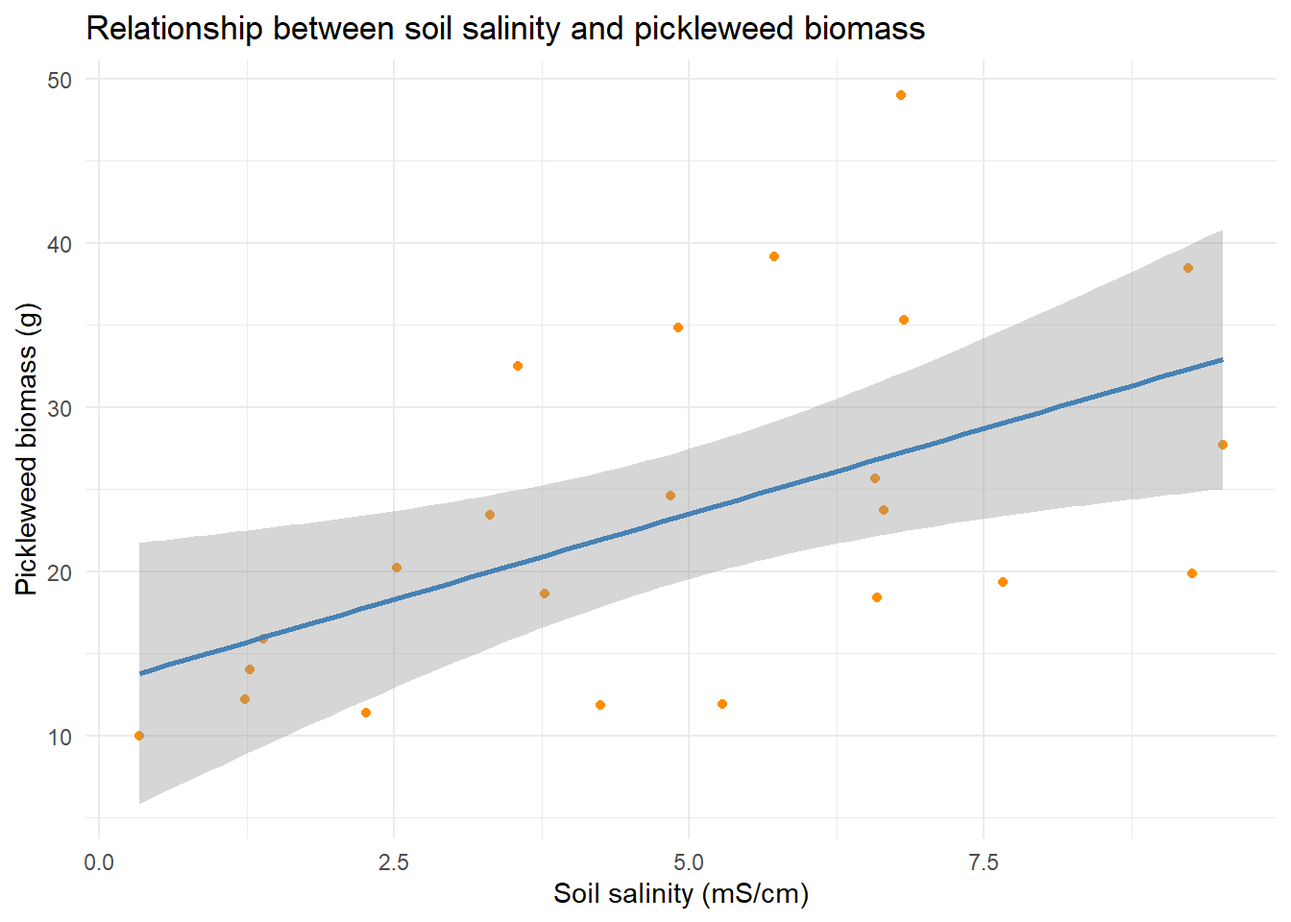
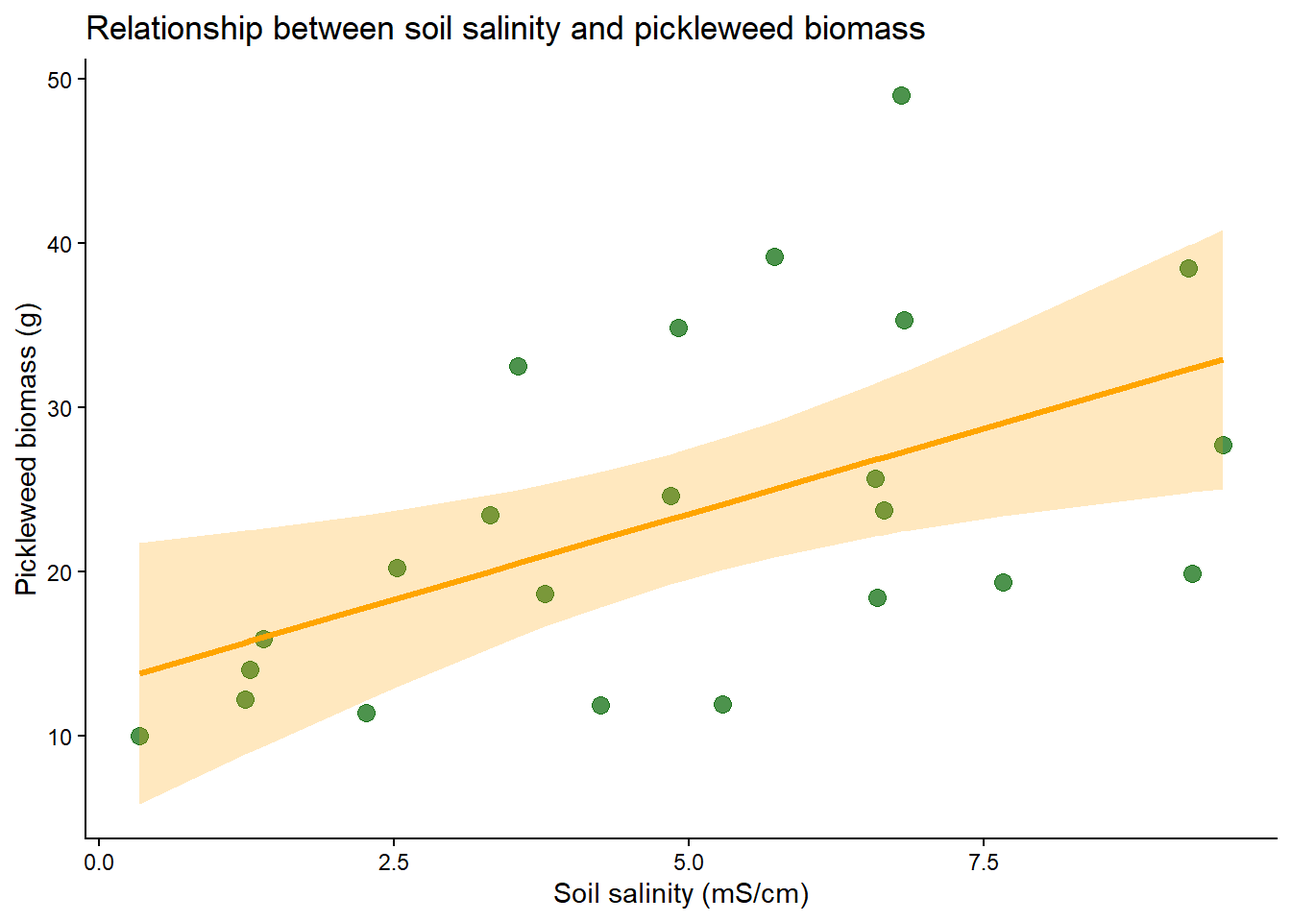
Ran Pearsons and Spearmans correlation

diff --git a/code/code.html b/code/code.html
@@ -120,20 +120,53 @@ pre > code.sourceCode > span > a:first-child::before { text-decoration: underlin
 <h1>Problem 1</h1>
 <section id="a." class="level3">
 <h3 class="anchored" data-anchor-id="a.">a.</h3>
-<p>I could do a linear regression test or a Pearson’s correlation test. Pearson’s correlation measures the stregeth and direction of a linear association between the two variables, while linear regression quantifies the relationship (1 predictor and 1 response) by estimating how biomass changes with salinity (uses slope and intercept).</p>
+<p>Two appropriate tests for evaluating the strength of the relationship between soil salinity (mS/cm) and pickleweed biomass (g) are Pearsons correlation and spearmans rank correlation . Pearson’s correlation measures the strength of a linear relationship and assumes normality and equal variance, while Spearman’s correlation uses the ranked values and does not require normality, making it more appropriate for skewed or nonlinear patterns. Both treat salinity and biomass as continuous variables but differ in their assumptions and sensitivity to outliers.</p>
 </section>
 <section id="b." class="level3">
 <h3 class="anchored" data-anchor-id="b.">b.</h3>
 <div class="cell">
-<div class="code-copy-outer-scaffold"><div class="sourceCode cell-code" id="cb2"><pre class="sourceCode r code-with-copy"><code class="sourceCode r"><span id="cb2-1"><a href="#cb2-1" aria-hidden="true" tabindex="-1"></a><span class="fu">ggplot</span>(salinity, <span class="fu">aes</span>(<span class="at">x =</span> salinity_mS_cm, <span class="at">y =</span> pickleweed)) <span class="sc">+</span></span>
-<span id="cb2-2"><a href="#cb2-2" aria-hidden="true" tabindex="-1"></a>  <span class="fu">geom_point</span>(<span class="at">color =</span> <span class="st">"darkorange"</span>) <span class="sc">+</span></span>
-<span id="cb2-3"><a href="#cb2-3" aria-hidden="true" tabindex="-1"></a>  <span class="fu">geom_smooth</span>(<span class="at">method =</span> <span class="st">"lm"</span>, <span class="at">se =</span> <span class="cn">TRUE</span>, <span class="at">color =</span> <span class="st">"steelblue"</span>) <span class="sc">+</span></span>
-<span id="cb2-4"><a href="#cb2-4" aria-hidden="true" tabindex="-1"></a>  <span class="fu">labs</span>(</span>
-<span id="cb2-5"><a href="#cb2-5" aria-hidden="true" tabindex="-1"></a>    <span class="at">x =</span> <span class="st">"Soil salinity (mS/cm)"</span>,</span>
-<span id="cb2-6"><a href="#cb2-6" aria-hidden="true" tabindex="-1"></a>    <span class="at">y =</span> <span class="st">"Pickleweed biomass (g)"</span>,</span>
-<span id="cb2-7"><a href="#cb2-7" aria-hidden="true" tabindex="-1"></a>    <span class="at">title =</span> <span class="st">"Relationship between soil salinity and pickleweed biomass"</span></span>
-<span id="cb2-8"><a href="#cb2-8" aria-hidden="true" tabindex="-1"></a>  ) <span class="sc">+</span></span>
-<span id="cb2-9"><a href="#cb2-9" aria-hidden="true" tabindex="-1"></a>  <span class="fu">theme_minimal</span>()</span></code></pre></div><button title="Copy to Clipboard" class="code-copy-button"><i class="bi"></i></button></div>
+<div class="code-copy-outer-scaffold"><div class="sourceCode cell-code" id="cb2"><pre class="sourceCode r code-with-copy"><code class="sourceCode r"><span id="cb2-1"><a href="#cb2-1" aria-hidden="true" tabindex="-1"></a><span class="fu">library</span>(ggplot2)</span>
+<span id="cb2-2"><a href="#cb2-2" aria-hidden="true" tabindex="-1"></a><span class="fu">library</span>(dplyr)</span>
+<span id="cb2-3"><a href="#cb2-3" aria-hidden="true" tabindex="-1"></a></span>
+<span id="cb2-4"><a href="#cb2-4" aria-hidden="true" tabindex="-1"></a><span class="co"># Fit the linear model</span></span>
+<span id="cb2-5"><a href="#cb2-5" aria-hidden="true" tabindex="-1"></a>lm_fit <span class="ot">&lt;-</span> <span class="fu">lm</span>(pickleweed <span class="sc">~</span> salinity_mS_cm, <span class="at">data =</span> salinity)</span>
+<span id="cb2-6"><a href="#cb2-6" aria-hidden="true" tabindex="-1"></a></span>
+<span id="cb2-7"><a href="#cb2-7" aria-hidden="true" tabindex="-1"></a><span class="co"># Create dataframe of fitted values + confidence intervals</span></span>
+<span id="cb2-8"><a href="#cb2-8" aria-hidden="true" tabindex="-1"></a>pred_df <span class="ot">&lt;-</span> <span class="fu">predict</span>(</span>
+<span id="cb2-9"><a href="#cb2-9" aria-hidden="true" tabindex="-1"></a>  lm_fit,</span>
+<span id="cb2-10"><a href="#cb2-10" aria-hidden="true" tabindex="-1"></a>  <span class="at">newdata =</span> <span class="fu">data.frame</span>(<span class="at">salinity_mS_cm =</span> salinity<span class="sc">$</span>salinity_mS_cm),</span>
+<span id="cb2-11"><a href="#cb2-11" aria-hidden="true" tabindex="-1"></a>  <span class="at">interval =</span> <span class="st">"confidence"</span></span>
+<span id="cb2-12"><a href="#cb2-12" aria-hidden="true" tabindex="-1"></a>) <span class="sc">%&gt;%</span></span>
+<span id="cb2-13"><a href="#cb2-13" aria-hidden="true" tabindex="-1"></a>  <span class="fu">as.data.frame</span>() <span class="sc">%&gt;%</span></span>
+<span id="cb2-14"><a href="#cb2-14" aria-hidden="true" tabindex="-1"></a>  <span class="fu">mutate</span>(<span class="at">salinity_mS_cm =</span> salinity<span class="sc">$</span>salinity_mS_cm)</span>
+<span id="cb2-15"><a href="#cb2-15" aria-hidden="true" tabindex="-1"></a></span>
+<span id="cb2-16"><a href="#cb2-16" aria-hidden="true" tabindex="-1"></a><span class="co"># Plot</span></span>
+<span id="cb2-17"><a href="#cb2-17" aria-hidden="true" tabindex="-1"></a><span class="fu">ggplot</span>() <span class="sc">+</span></span>
+<span id="cb2-18"><a href="#cb2-18" aria-hidden="true" tabindex="-1"></a>  <span class="fu">geom_point</span>(</span>
+<span id="cb2-19"><a href="#cb2-19" aria-hidden="true" tabindex="-1"></a>    <span class="at">data =</span> salinity,</span>
+<span id="cb2-20"><a href="#cb2-20" aria-hidden="true" tabindex="-1"></a>    <span class="fu">aes</span>(<span class="at">x =</span> salinity_mS_cm, <span class="at">y =</span> pickleweed),</span>
+<span id="cb2-21"><a href="#cb2-21" aria-hidden="true" tabindex="-1"></a>    <span class="at">color =</span> <span class="st">"darkgreen"</span>,</span>
+<span id="cb2-22"><a href="#cb2-22" aria-hidden="true" tabindex="-1"></a>    <span class="at">size =</span> <span class="dv">3</span>,</span>
+<span id="cb2-23"><a href="#cb2-23" aria-hidden="true" tabindex="-1"></a>    <span class="at">alpha =</span> <span class="fl">0.7</span></span>
+<span id="cb2-24"><a href="#cb2-24" aria-hidden="true" tabindex="-1"></a>  ) <span class="sc">+</span></span>
+<span id="cb2-25"><a href="#cb2-25" aria-hidden="true" tabindex="-1"></a>  <span class="fu">geom_ribbon</span>(</span>
+<span id="cb2-26"><a href="#cb2-26" aria-hidden="true" tabindex="-1"></a>    <span class="at">data =</span> pred_df,</span>
+<span id="cb2-27"><a href="#cb2-27" aria-hidden="true" tabindex="-1"></a>    <span class="fu">aes</span>(<span class="at">x =</span> salinity_mS_cm, <span class="at">ymin =</span> lwr, <span class="at">ymax =</span> upr),</span>
+<span id="cb2-28"><a href="#cb2-28" aria-hidden="true" tabindex="-1"></a>    <span class="at">fill =</span> <span class="st">"orange"</span>,</span>
+<span id="cb2-29"><a href="#cb2-29" aria-hidden="true" tabindex="-1"></a>    <span class="at">alpha =</span> <span class="fl">0.25</span></span>
+<span id="cb2-30"><a href="#cb2-30" aria-hidden="true" tabindex="-1"></a>  ) <span class="sc">+</span></span>
+<span id="cb2-31"><a href="#cb2-31" aria-hidden="true" tabindex="-1"></a>  <span class="fu">geom_line</span>(</span>
+<span id="cb2-32"><a href="#cb2-32" aria-hidden="true" tabindex="-1"></a>    <span class="at">data =</span> pred_df,</span>
+<span id="cb2-33"><a href="#cb2-33" aria-hidden="true" tabindex="-1"></a>    <span class="fu">aes</span>(<span class="at">x =</span> salinity_mS_cm, <span class="at">y =</span> fit),</span>
+<span id="cb2-34"><a href="#cb2-34" aria-hidden="true" tabindex="-1"></a>    <span class="at">color =</span> <span class="st">"orange"</span>,</span>
+<span id="cb2-35"><a href="#cb2-35" aria-hidden="true" tabindex="-1"></a>    <span class="at">linewidth =</span> <span class="fl">1.2</span></span>
+<span id="cb2-36"><a href="#cb2-36" aria-hidden="true" tabindex="-1"></a>  ) <span class="sc">+</span></span>
+<span id="cb2-37"><a href="#cb2-37" aria-hidden="true" tabindex="-1"></a>  <span class="fu">labs</span>(</span>
+<span id="cb2-38"><a href="#cb2-38" aria-hidden="true" tabindex="-1"></a>    <span class="at">x =</span> <span class="st">"Soil salinity (mS/cm)"</span>,</span>
+<span id="cb2-39"><a href="#cb2-39" aria-hidden="true" tabindex="-1"></a>    <span class="at">y =</span> <span class="st">"Pickleweed biomass (g)"</span>,</span>
+<span id="cb2-40"><a href="#cb2-40" aria-hidden="true" tabindex="-1"></a>    <span class="at">title =</span> <span class="st">"Relationship between soil salinity and pickleweed biomass"</span></span>
+<span id="cb2-41"><a href="#cb2-41" aria-hidden="true" tabindex="-1"></a>  ) <span class="sc">+</span></span>
+<span id="cb2-42"><a href="#cb2-42" aria-hidden="true" tabindex="-1"></a>  <span class="fu">theme_classic</span>()</span></code></pre></div><button title="Copy to Clipboard" class="code-copy-button"><i class="bi"></i></button></div>
 <div class="cell-output-display">
 <div>
 <figure class="figure">
@@ -146,34 +179,15 @@ pre > code.sourceCode > span > a:first-child::before { text-decoration: underlin
 <section id="c." class="level3">
 <h3 class="anchored" data-anchor-id="c.">c.</h3>
 </section>
-</section>
-<section id="problem-2" class="level1">
-<h1>Problem 2</h1>
-<section id="a.-1" class="level3">
-<h3 class="anchored" data-anchor-id="a.-1">a.</h3>
+<section id="checking-assuptions" class="level3">
+<h3 class="anchored" data-anchor-id="checking-assuptions">Checking Assuptions</h3>
 <div class="cell">
-<div class="code-copy-outer-scaffold"><div class="sourceCode cell-code" id="cb3"><pre class="sourceCode r code-with-copy"><code class="sourceCode r"><span id="cb3-1"><a href="#cb3-1" aria-hidden="true" tabindex="-1"></a><span class="fu">ggplot</span>(Kyra_data, <span class="co"># making a ggplot using the data from Proj1</span></span>
-<span id="cb3-2"><a href="#cb3-2" aria-hidden="true" tabindex="-1"></a>       <span class="fu">aes</span>(<span class="at">x =</span> Weekend.or.Weekday,   <span class="co"># using weekend or weekday as the categorical xaxis</span></span>
-<span id="cb3-3"><a href="#cb3-3" aria-hidden="true" tabindex="-1"></a>           <span class="at">y =</span> Pickups, <span class="co"># using pickups data for the y axis</span></span>
-<span id="cb3-4"><a href="#cb3-4" aria-hidden="true" tabindex="-1"></a>           <span class="at">fill =</span> Weekend.or.Weekday)) <span class="sc">+</span> <span class="co"># filling with different colors for weekendand weekday</span></span>
-<span id="cb3-5"><a href="#cb3-5" aria-hidden="true" tabindex="-1"></a>  <span class="fu">geom_boxplot</span>(<span class="at">alpha =</span> <span class="fl">0.2</span>) <span class="sc">+</span> <span class="co"># adjusting the transparency</span></span>
-<span id="cb3-6"><a href="#cb3-6" aria-hidden="true" tabindex="-1"></a>  <span class="fu">geom_jitter</span>(<span class="at">width =</span> <span class="fl">0.2</span>, <span class="co"># giving the points a slight horizontal jitter</span></span>
-<span id="cb3-7"><a href="#cb3-7" aria-hidden="true" tabindex="-1"></a>              <span class="at">height =</span> <span class="dv">0</span>, <span class="co"># NO vertical jitter</span></span>
-<span id="cb3-8"><a href="#cb3-8" aria-hidden="true" tabindex="-1"></a>              <span class="at">alpha =</span> <span class="fl">0.8</span>, <span class="co"># making points semi-transparent for readability</span></span>
-<span id="cb3-9"><a href="#cb3-9" aria-hidden="true" tabindex="-1"></a>              <span class="at">shape =</span> <span class="dv">21</span>) <span class="sc">+</span> <span class="co"># picking a different shape</span></span>
-<span id="cb3-10"><a href="#cb3-10" aria-hidden="true" tabindex="-1"></a>  <span class="fu">labs</span>(</span>
-<span id="cb3-11"><a href="#cb3-11" aria-hidden="true" tabindex="-1"></a>    <span class="at">title =</span> <span class="st">"Phone Pickup Count: Weekends vs Weekdays"</span>, <span class="co"># creating the title ofthe graph</span></span>
-<span id="cb3-12"><a href="#cb3-12" aria-hidden="true" tabindex="-1"></a>    <span class="at">subtitle =</span> <span class="st">"Most recent observation: February 18, 2026"</span>,</span>
-<span id="cb3-13"><a href="#cb3-13" aria-hidden="true" tabindex="-1"></a>    <span class="at">x =</span> <span class="st">"Day Type"</span>, <span class="co"># labeling the x axis</span></span>
-<span id="cb3-14"><a href="#cb3-14" aria-hidden="true" tabindex="-1"></a>    <span class="at">y =</span> <span class="st">"Pickup Count"</span> <span class="co"># labeling the y axis</span></span>
-<span id="cb3-15"><a href="#cb3-15" aria-hidden="true" tabindex="-1"></a>  ) <span class="sc">+</span></span>
-<span id="cb3-16"><a href="#cb3-16" aria-hidden="true" tabindex="-1"></a>  <span class="fu">scale_fill_manual</span>(<span class="at">values =</span> <span class="fu">c</span>( <span class="co"># filling with colors otherthen the default</span></span>
-<span id="cb3-17"><a href="#cb3-17" aria-hidden="true" tabindex="-1"></a>    <span class="st">"weekday"</span> <span class="ot">=</span> <span class="st">"red"</span>,</span>
-<span id="cb3-18"><a href="#cb3-18" aria-hidden="true" tabindex="-1"></a>    <span class="st">"weekend"</span> <span class="ot">=</span> <span class="st">"purple"</span></span>
-<span id="cb3-19"><a href="#cb3-19" aria-hidden="true" tabindex="-1"></a>  )) <span class="sc">+</span></span>
-<span id="cb3-20"><a href="#cb3-20" aria-hidden="true" tabindex="-1"></a>  </span>
-<span id="cb3-21"><a href="#cb3-21" aria-hidden="true" tabindex="-1"></a>  <span class="fu">theme_classic</span>() <span class="sc">+</span> <span class="co"># changed the theme form the default</span></span>
-<span id="cb3-22"><a href="#cb3-22" aria-hidden="true" tabindex="-1"></a>  <span class="fu">guides</span>(<span class="at">fill =</span> <span class="st">"none"</span>) <span class="co"># removing the legend</span></span></code></pre></div><button title="Copy to Clipboard" class="code-copy-button"><i class="bi"></i></button></div>
+<div class="code-copy-outer-scaffold"><div class="sourceCode cell-code" id="cb3"><pre class="sourceCode r code-with-copy"><code class="sourceCode r"><span id="cb3-1"><a href="#cb3-1" aria-hidden="true" tabindex="-1"></a><span class="co"># Fit the linear regression model</span></span>
+<span id="cb3-2"><a href="#cb3-2" aria-hidden="true" tabindex="-1"></a>lm_fit <span class="ot">&lt;-</span> <span class="fu">lm</span>(pickleweed <span class="sc">~</span> salinity_mS_cm, <span class="at">data =</span> salinity)</span>
+<span id="cb3-3"><a href="#cb3-3" aria-hidden="true" tabindex="-1"></a></span>
+<span id="cb3-4"><a href="#cb3-4" aria-hidden="true" tabindex="-1"></a><span class="co"># Produce the four diagnostic plots</span></span>
+<span id="cb3-5"><a href="#cb3-5" aria-hidden="true" tabindex="-1"></a><span class="fu">par</span>(<span class="at">mfrow =</span> <span class="fu">c</span>(<span class="dv">2</span>, <span class="dv">2</span>))   <span class="co"># optional: shows all 4 plots in one window</span></span>
+<span id="cb3-6"><a href="#cb3-6" aria-hidden="true" tabindex="-1"></a><span class="fu">plot</span>(lm_fit)</span></code></pre></div><button title="Copy to Clipboard" class="code-copy-button"><i class="bi"></i></button></div>
 <div class="cell-output-display">
 <div>
 <figure class="figure">
@@ -182,43 +196,139 @@ pre > code.sourceCode > span > a:first-child::before { text-decoration: underlin
 </div>
 </div>
 </div>
+<p>Residuals vs Fitted : This plot helped evaluate linearity and constant variance. The points were scattered without a strong curve, and the spread of residuals stayed fairly even across fitted values. That pattern suggests the relationship between salinity and biomass is approximately linear and that variance is not dramatically increasing or decreasing.</p>
+<p>Normal QQ Plot : This plot checked normality of residuals. Most points fell close to the diagonal line, with only mild deviations at the tails. That pattern indicates that the residuals are reasonably close to normally distributed, which is sufficient for Pearson’s correlation.</p>
+<p>Scale Location Plot : This plot provided another view of homoscedasticity. The red line was about flat, and the spread of points around it did not show a funnel shape. That consistency supports the assumption of equal variance across levels of salinity.</p>
+<p>Residuals vs Leverage : This plot helped identify influential points. No observations were far outside the Cook’s distance , and leverage values were moderate. This indicates that no single point was disproportionately influencing the linear relationship.</p>
+<p>Pearson’s correlation assumes, linearity between salinity and biomass, normality of residuals, constant variance, and o extreme influential points. Overall the assumptions were met.</p>
+</section>
+<section id="running-test" class="level3">
+<h3 class="anchored" data-anchor-id="running-test">Running test</h3>
 <div class="cell">
-<div class="code-copy-outer-scaffold"><div class="sourceCode cell-code" id="cb4"><pre class="sourceCode r code-with-copy"><code class="sourceCode r"><span id="cb4-1"><a href="#cb4-1" aria-hidden="true" tabindex="-1"></a><span class="fu">ggplot</span>(Kyra_data, <span class="co"># creating a plot using ggplot </span></span>
-<span id="cb4-2"><a href="#cb4-2" aria-hidden="true" tabindex="-1"></a>       <span class="fu">aes</span>(<span class="at">x =</span> <span class="st">`</span><span class="at">min.of.sleep.the.night.before</span><span class="st">`</span>, <span class="co"># using min of sleep as the x axis </span></span>
-<span id="cb4-3"><a href="#cb4-3" aria-hidden="true" tabindex="-1"></a>           <span class="at">y =</span> Pickups)) <span class="sc">+</span> <span class="co"># using pickups as the y-axis</span></span>
-<span id="cb4-4"><a href="#cb4-4" aria-hidden="true" tabindex="-1"></a>  </span>
-<span id="cb4-5"><a href="#cb4-5" aria-hidden="true" tabindex="-1"></a>  <span class="fu">geom_point</span>(<span class="at">color =</span> <span class="st">"#1B9E77"</span>,   <span class="co"># nondefault green </span></span>
-<span id="cb4-6"><a href="#cb4-6" aria-hidden="true" tabindex="-1"></a>             <span class="at">size =</span> <span class="dv">3</span> <span class="co"># adjusting the size for visibilty </span></span>
-<span id="cb4-7"><a href="#cb4-7" aria-hidden="true" tabindex="-1"></a>             ) <span class="sc">+</span> <span class="co">#</span></span>
-<span id="cb4-8"><a href="#cb4-8" aria-hidden="true" tabindex="-1"></a>  </span>
-<span id="cb4-9"><a href="#cb4-9" aria-hidden="true" tabindex="-1"></a>  <span class="fu">geom_smooth</span>(<span class="at">method =</span> <span class="st">"lm"</span>,</span>
-<span id="cb4-10"><a href="#cb4-10" aria-hidden="true" tabindex="-1"></a>              <span class="at">se =</span> <span class="cn">TRUE</span>,           <span class="co"># shows confidence band</span></span>
-<span id="cb4-11"><a href="#cb4-11" aria-hidden="true" tabindex="-1"></a>              <span class="at">color =</span> <span class="st">"#D95F02"</span>,   <span class="co"># non-default orange</span></span>
-<span id="cb4-12"><a href="#cb4-12" aria-hidden="true" tabindex="-1"></a>              <span class="at">linewidth =</span> <span class="fl">1.2</span>) <span class="sc">+</span>   <span class="co"># widening the line just to do soem extra messing around with the visual</span></span>
-<span id="cb4-13"><a href="#cb4-13" aria-hidden="true" tabindex="-1"></a>  </span>
-<span id="cb4-14"><a href="#cb4-14" aria-hidden="true" tabindex="-1"></a>  <span class="fu">labs</span>(</span>
-<span id="cb4-15"><a href="#cb4-15" aria-hidden="true" tabindex="-1"></a>    <span class="at">title =</span> <span class="st">"Phone Pickups vs. Minutes of Sleep"</span>, <span class="co"># adding a title</span></span>
-<span id="cb4-16"><a href="#cb4-16" aria-hidden="true" tabindex="-1"></a>    <span class="at">subtitle =</span> <span class="st">"Most recent observation: February 18, 2026"</span>, <span class="co"># putting my most recent obs as the subtitle </span></span>
-<span id="cb4-17"><a href="#cb4-17" aria-hidden="true" tabindex="-1"></a>    <span class="at">x =</span> <span class="st">"Minutes of sleep the night before (min)"</span>, <span class="co"># labeling my x-axis</span></span>
-<span id="cb4-18"><a href="#cb4-18" aria-hidden="true" tabindex="-1"></a>    <span class="at">y =</span> <span class="st">"Phone pickup count (number of pickups)"</span>    <span class="co"># labeling my y-axis</span></span>
-<span id="cb4-19"><a href="#cb4-19" aria-hidden="true" tabindex="-1"></a>  ) <span class="sc">+</span></span>
-<span id="cb4-20"><a href="#cb4-20" aria-hidden="true" tabindex="-1"></a></span>
-<span id="cb4-21"><a href="#cb4-21" aria-hidden="true" tabindex="-1"></a>  <span class="fu">theme_classic</span>() <span class="sc">+</span> <span class="co"># changing the theme form the gghplot default </span></span>
-<span id="cb4-22"><a href="#cb4-22" aria-hidden="true" tabindex="-1"></a></span>
-<span id="cb4-23"><a href="#cb4-23" aria-hidden="true" tabindex="-1"></a>  <span class="fu">theme</span>(</span>
-<span id="cb4-24"><a href="#cb4-24" aria-hidden="true" tabindex="-1"></a>    <span class="at">panel.grid =</span> <span class="fu">element_blank</span>(),        <span class="co"># removes all gridlines</span></span>
-<span id="cb4-25"><a href="#cb4-25" aria-hidden="true" tabindex="-1"></a>    <span class="at">panel.background =</span> <span class="fu">element_blank</span>(),  <span class="co"># removes grey panel background</span></span>
-<span id="cb4-26"><a href="#cb4-26" aria-hidden="true" tabindex="-1"></a>    <span class="at">plot.background =</span> <span class="fu">element_blank</span>(),   <span class="co"># removes outer plot background</span></span>
-<span id="cb4-27"><a href="#cb4-27" aria-hidden="true" tabindex="-1"></a>    <span class="at">axis.line =</span> <span class="fu">element_line</span>(<span class="at">color =</span> <span class="st">"black"</span>),  <span class="co"># keeps clean black axis lines</span></span>
-<span id="cb4-28"><a href="#cb4-28" aria-hidden="true" tabindex="-1"></a>    <span class="at">axis.ticks =</span> <span class="fu">element_line</span>(<span class="at">color =</span> <span class="st">"black"</span>)  <span class="co"># keeps ticks visible and clean</span></span>
-<span id="cb4-29"><a href="#cb4-29" aria-hidden="true" tabindex="-1"></a>  )</span></code></pre></div><button title="Copy to Clipboard" class="code-copy-button"><i class="bi"></i></button></div>
+<div class="code-copy-outer-scaffold"><div class="sourceCode cell-code" id="cb4"><pre class="sourceCode r code-with-copy"><code class="sourceCode r"><span id="cb4-1"><a href="#cb4-1" aria-hidden="true" tabindex="-1"></a><span class="fu">cor.test</span>(</span>
+<span id="cb4-2"><a href="#cb4-2" aria-hidden="true" tabindex="-1"></a>  <span class="sc">~</span> salinity_mS_cm <span class="sc">+</span> pickleweed,</span>
+<span id="cb4-3"><a href="#cb4-3" aria-hidden="true" tabindex="-1"></a>  <span class="at">data =</span> salinity,</span>
+<span id="cb4-4"><a href="#cb4-4" aria-hidden="true" tabindex="-1"></a>  <span class="at">method =</span> <span class="st">"pearson"</span></span>
+<span id="cb4-5"><a href="#cb4-5" aria-hidden="true" tabindex="-1"></a>)</span></code></pre></div><button title="Copy to Clipboard" class="code-copy-button"><i class="bi"></i></button></div>
+<div class="cell-output cell-output-stdout">
+<pre><code>
+    Pearson's product-moment correlation
+
+data:  salinity_mS_cm and pickleweed
+t = 2.8979, df = 21, p-value = 0.008605
+alternative hypothesis: true correlation is not equal to 0
+95 percent confidence interval:
+ 0.1568265 0.7757682
+sample estimates:
+      cor 
+0.5344778 </code></pre>
+</div>
+</div>
+</section>
+<section id="d." class="level3">
+<h3 class="anchored" data-anchor-id="d.">d.&nbsp;</h3>
+<p>To evaluate the strength of the relationship between pickleweed biomass and soil salinity, I used a Pearsons correlation because both variables are continuous and my diagnostic plots indicated that the assumptions of linearity and approximate normality were reasonably met. There is a statistically significant moderately positive correlation between soil salinity and CA pickle weed biomass(g), meaning that biomass tends to increase as soil salinity increases. (Pearson’s r = 0.53, t(21) = 2.90, p = .009, α = .05)</p>
+</section>
+<section id="e." class="level3">
+<h3 class="anchored" data-anchor-id="e.">e.</h3>
+<p>The analysis shows that pickleweed biomass increases as soil salinity increases, and this relationship is statistically reliable (r = 0.53, p = .009). This means areas of the slough with higher salinity are more likely to support stronger pickleweed growth. For planting decisions, we should prioritize high salinity zones if our goal is to maximize biomass.</p>
+</section>
+<section id="f." class="level3">
+<h3 class="anchored" data-anchor-id="f.">f.&nbsp;</h3>
+<div class="cell">
+<div class="code-copy-outer-scaffold"><div class="sourceCode cell-code" id="cb6"><pre class="sourceCode r code-with-copy"><code class="sourceCode r"><span id="cb6-1"><a href="#cb6-1" aria-hidden="true" tabindex="-1"></a><span class="fu">cor.test</span>(</span>
+<span id="cb6-2"><a href="#cb6-2" aria-hidden="true" tabindex="-1"></a>  <span class="sc">~</span> salinity_mS_cm <span class="sc">+</span> pickleweed,</span>
+<span id="cb6-3"><a href="#cb6-3" aria-hidden="true" tabindex="-1"></a>  <span class="at">data =</span> salinity,</span>
+<span id="cb6-4"><a href="#cb6-4" aria-hidden="true" tabindex="-1"></a>  <span class="at">method =</span> <span class="st">"spearman"</span></span>
+<span id="cb6-5"><a href="#cb6-5" aria-hidden="true" tabindex="-1"></a>)</span></code></pre></div><button title="Copy to Clipboard" class="code-copy-button"><i class="bi"></i></button></div>
+<div class="cell-output cell-output-stdout">
+<pre><code>
+    Spearman's rank correlation rho
+
+data:  salinity_mS_cm and pickleweed
+S = 824, p-value = 0.003426
+alternative hypothesis: true rho is not equal to 0
+sample estimates:
+      rho 
+0.5928854 </code></pre>
+</div>
+</div>
+<p>There is a statistically significant moderately positive monotonic relationship between soil salinity and California pickleweed biomass (g), meaning that biomass tends to increase as salinity increases even when the data are ranked. (Spearman’s ρ = 0.59, S = 824, p = .003, α = .05)</p>
+<p>Pearson’s and Spearman’s correlations led to the same conclusion about the relationship between salinity and pickleweed biomass: both tests detected a positive and statistically significant association. Pearson measured the strength of the linear relationship (r = 0.53, p = .009), while Spearman measured the strength of the monotonic relationship, which is less sensitive to normality and outliers. Because both tests agreed, the interpretation remains the same meaning biomass increases as soil salinity increases</p>
+</section>
+</section>
+<section id="problem-2" class="level1">
+<h1>Problem 2</h1>
+<section id="a.-1" class="level3">
+<h3 class="anchored" data-anchor-id="a.-1">a.</h3>
+<div class="cell">
+<div class="code-copy-outer-scaffold"><div class="sourceCode cell-code" id="cb8"><pre class="sourceCode r code-with-copy"><code class="sourceCode r"><span id="cb8-1"><a href="#cb8-1" aria-hidden="true" tabindex="-1"></a><span class="fu">ggplot</span>(Kyra_data, <span class="co"># making a ggplot using the data from Proj1</span></span>
+<span id="cb8-2"><a href="#cb8-2" aria-hidden="true" tabindex="-1"></a>       <span class="fu">aes</span>(<span class="at">x =</span> Weekend.or.Weekday,   <span class="co"># using weekend or weekday as the categorical xaxis</span></span>
+<span id="cb8-3"><a href="#cb8-3" aria-hidden="true" tabindex="-1"></a>           <span class="at">y =</span> Pickups, <span class="co"># using pickups data for the y axis</span></span>
+<span id="cb8-4"><a href="#cb8-4" aria-hidden="true" tabindex="-1"></a>           <span class="at">fill =</span> Weekend.or.Weekday)) <span class="sc">+</span> <span class="co"># filling with different colors for weekendand weekday</span></span>
+<span id="cb8-5"><a href="#cb8-5" aria-hidden="true" tabindex="-1"></a>  <span class="fu">geom_boxplot</span>(<span class="at">alpha =</span> <span class="fl">0.2</span>) <span class="sc">+</span> <span class="co"># adjusting the transparency</span></span>
+<span id="cb8-6"><a href="#cb8-6" aria-hidden="true" tabindex="-1"></a>  <span class="fu">geom_jitter</span>(<span class="at">width =</span> <span class="fl">0.2</span>, <span class="co"># giving the points a slight horizontal jitter</span></span>
+<span id="cb8-7"><a href="#cb8-7" aria-hidden="true" tabindex="-1"></a>              <span class="at">height =</span> <span class="dv">0</span>, <span class="co"># NO vertical jitter</span></span>
+<span id="cb8-8"><a href="#cb8-8" aria-hidden="true" tabindex="-1"></a>              <span class="at">alpha =</span> <span class="fl">0.8</span>, <span class="co"># making points semi-transparent for readability</span></span>
+<span id="cb8-9"><a href="#cb8-9" aria-hidden="true" tabindex="-1"></a>              <span class="at">shape =</span> <span class="dv">21</span>) <span class="sc">+</span> <span class="co"># picking a different shape</span></span>
+<span id="cb8-10"><a href="#cb8-10" aria-hidden="true" tabindex="-1"></a>  <span class="fu">labs</span>(</span>
+<span id="cb8-11"><a href="#cb8-11" aria-hidden="true" tabindex="-1"></a>    <span class="at">title =</span> <span class="st">"Phone Pickup Count: Weekends vs Weekdays"</span>, <span class="co"># creating the title ofthe graph</span></span>
+<span id="cb8-12"><a href="#cb8-12" aria-hidden="true" tabindex="-1"></a>    <span class="at">subtitle =</span> <span class="st">"Most recent observation: February 18, 2026"</span>,</span>
+<span id="cb8-13"><a href="#cb8-13" aria-hidden="true" tabindex="-1"></a>    <span class="at">x =</span> <span class="st">"Day Type"</span>, <span class="co"># labeling the x axis</span></span>
+<span id="cb8-14"><a href="#cb8-14" aria-hidden="true" tabindex="-1"></a>    <span class="at">y =</span> <span class="st">"Pickup Count"</span> <span class="co"># labeling the y axis</span></span>
+<span id="cb8-15"><a href="#cb8-15" aria-hidden="true" tabindex="-1"></a>  ) <span class="sc">+</span></span>
+<span id="cb8-16"><a href="#cb8-16" aria-hidden="true" tabindex="-1"></a>  <span class="fu">scale_fill_manual</span>(<span class="at">values =</span> <span class="fu">c</span>( <span class="co"># filling with colors otherthen the default</span></span>
+<span id="cb8-17"><a href="#cb8-17" aria-hidden="true" tabindex="-1"></a>    <span class="st">"weekday"</span> <span class="ot">=</span> <span class="st">"red"</span>,</span>
+<span id="cb8-18"><a href="#cb8-18" aria-hidden="true" tabindex="-1"></a>    <span class="st">"weekend"</span> <span class="ot">=</span> <span class="st">"purple"</span></span>
+<span id="cb8-19"><a href="#cb8-19" aria-hidden="true" tabindex="-1"></a>  )) <span class="sc">+</span></span>
+<span id="cb8-20"><a href="#cb8-20" aria-hidden="true" tabindex="-1"></a>  </span>
+<span id="cb8-21"><a href="#cb8-21" aria-hidden="true" tabindex="-1"></a>  <span class="fu">theme_classic</span>() <span class="sc">+</span> <span class="co"># changed the theme form the default</span></span>
+<span id="cb8-22"><a href="#cb8-22" aria-hidden="true" tabindex="-1"></a>  <span class="fu">guides</span>(<span class="at">fill =</span> <span class="st">"none"</span>) <span class="co"># removing the legend</span></span></code></pre></div><button title="Copy to Clipboard" class="code-copy-button"><i class="bi"></i></button></div>
+<div class="cell-output-display">
+<div>
+<figure class="figure">
+<p><img src="code_files/figure-html/unnamed-chunk-6-1.png" class="img-fluid figure-img" width="672"></p>
+</figure>
+</div>
+</div>
+</div>
+<div class="cell">
+<div class="code-copy-outer-scaffold"><div class="sourceCode cell-code" id="cb9"><pre class="sourceCode r code-with-copy"><code class="sourceCode r"><span id="cb9-1"><a href="#cb9-1" aria-hidden="true" tabindex="-1"></a><span class="fu">ggplot</span>(Kyra_data, <span class="co"># creating a plot using ggplot </span></span>
+<span id="cb9-2"><a href="#cb9-2" aria-hidden="true" tabindex="-1"></a>       <span class="fu">aes</span>(<span class="at">x =</span> <span class="st">`</span><span class="at">min.of.sleep.the.night.before</span><span class="st">`</span>, <span class="co"># using min of sleep as the x axis </span></span>
+<span id="cb9-3"><a href="#cb9-3" aria-hidden="true" tabindex="-1"></a>           <span class="at">y =</span> Pickups)) <span class="sc">+</span> <span class="co"># using pickups as the y-axis</span></span>
+<span id="cb9-4"><a href="#cb9-4" aria-hidden="true" tabindex="-1"></a>  </span>
+<span id="cb9-5"><a href="#cb9-5" aria-hidden="true" tabindex="-1"></a>  <span class="fu">geom_point</span>(<span class="at">color =</span> <span class="st">"#1B9E77"</span>,   <span class="co"># nondefault green </span></span>
+<span id="cb9-6"><a href="#cb9-6" aria-hidden="true" tabindex="-1"></a>             <span class="at">size =</span> <span class="dv">3</span> <span class="co"># adjusting the size for visibilty </span></span>
+<span id="cb9-7"><a href="#cb9-7" aria-hidden="true" tabindex="-1"></a>             ) <span class="sc">+</span> <span class="co">#</span></span>
+<span id="cb9-8"><a href="#cb9-8" aria-hidden="true" tabindex="-1"></a>  </span>
+<span id="cb9-9"><a href="#cb9-9" aria-hidden="true" tabindex="-1"></a>  <span class="fu">geom_smooth</span>(<span class="at">method =</span> <span class="st">"lm"</span>,</span>
+<span id="cb9-10"><a href="#cb9-10" aria-hidden="true" tabindex="-1"></a>              <span class="at">se =</span> <span class="cn">TRUE</span>,           <span class="co"># shows confidence band</span></span>
+<span id="cb9-11"><a href="#cb9-11" aria-hidden="true" tabindex="-1"></a>              <span class="at">color =</span> <span class="st">"#D95F02"</span>,   <span class="co"># non-default orange</span></span>
+<span id="cb9-12"><a href="#cb9-12" aria-hidden="true" tabindex="-1"></a>              <span class="at">linewidth =</span> <span class="fl">1.2</span>) <span class="sc">+</span>   <span class="co"># widening the line just to do soem extra messing around with the visual</span></span>
+<span id="cb9-13"><a href="#cb9-13" aria-hidden="true" tabindex="-1"></a>  </span>
+<span id="cb9-14"><a href="#cb9-14" aria-hidden="true" tabindex="-1"></a>  <span class="fu">labs</span>(</span>
+<span id="cb9-15"><a href="#cb9-15" aria-hidden="true" tabindex="-1"></a>    <span class="at">title =</span> <span class="st">"Phone Pickups vs. Minutes of Sleep"</span>, <span class="co"># adding a title</span></span>
+<span id="cb9-16"><a href="#cb9-16" aria-hidden="true" tabindex="-1"></a>    <span class="at">subtitle =</span> <span class="st">"Most recent observation: February 18, 2026"</span>, <span class="co"># putting my most recent obs as the subtitle </span></span>
+<span id="cb9-17"><a href="#cb9-17" aria-hidden="true" tabindex="-1"></a>    <span class="at">x =</span> <span class="st">"Minutes of sleep the night before (min)"</span>, <span class="co"># labeling my x-axis</span></span>
+<span id="cb9-18"><a href="#cb9-18" aria-hidden="true" tabindex="-1"></a>    <span class="at">y =</span> <span class="st">"Phone pickup count (number of pickups)"</span>    <span class="co"># labeling my y-axis</span></span>
+<span id="cb9-19"><a href="#cb9-19" aria-hidden="true" tabindex="-1"></a>  ) <span class="sc">+</span></span>
+<span id="cb9-20"><a href="#cb9-20" aria-hidden="true" tabindex="-1"></a></span>
+<span id="cb9-21"><a href="#cb9-21" aria-hidden="true" tabindex="-1"></a>  <span class="fu">theme_classic</span>() <span class="sc">+</span> <span class="co"># changing the theme form the gghplot default </span></span>
+<span id="cb9-22"><a href="#cb9-22" aria-hidden="true" tabindex="-1"></a></span>
+<span id="cb9-23"><a href="#cb9-23" aria-hidden="true" tabindex="-1"></a>  <span class="fu">theme</span>(</span>
+<span id="cb9-24"><a href="#cb9-24" aria-hidden="true" tabindex="-1"></a>    <span class="at">panel.grid =</span> <span class="fu">element_blank</span>(),        <span class="co"># removes all gridlines</span></span>
+<span id="cb9-25"><a href="#cb9-25" aria-hidden="true" tabindex="-1"></a>    <span class="at">panel.background =</span> <span class="fu">element_blank</span>(),  <span class="co"># removes grey panel background</span></span>
+<span id="cb9-26"><a href="#cb9-26" aria-hidden="true" tabindex="-1"></a>    <span class="at">plot.background =</span> <span class="fu">element_blank</span>(),   <span class="co"># removes outer plot background</span></span>
+<span id="cb9-27"><a href="#cb9-27" aria-hidden="true" tabindex="-1"></a>    <span class="at">axis.line =</span> <span class="fu">element_line</span>(<span class="at">color =</span> <span class="st">"black"</span>),  <span class="co"># keeps clean black axis lines</span></span>
+<span id="cb9-28"><a href="#cb9-28" aria-hidden="true" tabindex="-1"></a>    <span class="at">axis.ticks =</span> <span class="fu">element_line</span>(<span class="at">color =</span> <span class="st">"black"</span>)  <span class="co"># keeps ticks visible and clean</span></span>
+<span id="cb9-29"><a href="#cb9-29" aria-hidden="true" tabindex="-1"></a>  )</span></code></pre></div><button title="Copy to Clipboard" class="code-copy-button"><i class="bi"></i></button></div>
 <div class="cell-output cell-output-stderr">
 <pre><code>`geom_smooth()` using formula = 'y ~ x'</code></pre>
 </div>
 <div class="cell-output-display">
 <div>
 <figure class="figure">
-<p><img src="code_files/figure-html/unnamed-chunk-4-1.png" class="img-fluid figure-img" width="672"></p>
+<p><img src="code_files/figure-html/unnamed-chunk-7-1.png" class="img-fluid figure-img" width="672"></p>
 </figure>
 </div>
 </div>
@@ -229,8 +339,45 @@ pre > code.sourceCode > span > a:first-child::before { text-decoration: underlin
 <p>FIGURE 1: The x-axis (Day Type) shows whether the day is a weekday or weekend, and the y-axis (Pickup Count) shows the number of phone pickups. The red box represents weekdays and the purple box represents weekends. Dots show individual daily observations, pink being weekdays and purple for weekends. The black line inside each box is the median, the box edges show the interquartile range (middle 50% of values), and the vertical lines (whiskers) show the range of non-outlier values. The subtitle indicates the most recent observation date (February 18, 2026).</p>
 <p>FIGURE 2 : The x-axis (Minutes of sleep the night before) shows sleep duration in minutes, and the y-axis (Phone pickup count) shows the number of daily phone pickups. Green dots represent individual daily observations. The red line shows the fitted linear trend between sleep and phone pickups, and the gray shaded band represents the confidence interval around the trend line. The subtitle indicates the most recent observation date (February 18, 2026).</p>
 </section>
+</section>
+<section id="problem-3" class="level1">
+<h1>Problem 3</h1>
+<section id="a.-2" class="level3">
+<h3 class="anchored" data-anchor-id="a.-2">a.</h3>
+<p>My affective visualization will use a timeline of overlapping circles of cutout construction paper to represent my daily boredom levels and phone pickups. Each circle’s size will reflect my boredom on a scale of 1–5, with lower boredom shown as larger circles and higher boredom as smaller ones (starting at 1=1inch and moving down inches for each value 2-=0.8 inches, 3=.06 inches, 4 = .03 inches and 5 = .02 inches ). The circles will be colored along a heat gradient, shifting from cool blues for fewer phone pickups to warm reds for more frequent pickups. 100-125 will be blue then 125-150 will be white 150-175 will be yellow and 200+ will be red) As the circles overlap, they will create visually dense or chaotic areas that express how stressful or repetitive certain days felt.</p>
+</section>
+<section id="b.-2" class="level3">
+<h3 class="anchored" data-anchor-id="b.-2">b.</h3>
+</section>
 <section id="c.-1" class="level3">
-<h3 class="anchored" data-anchor-id="c.-1">c.&nbsp;</h3>
+<h3 class="anchored" data-anchor-id="c.-1">c.</h3>
+</section>
+<section id="d.-1" class="level3">
+<h3 class="anchored" data-anchor-id="d.-1">d.</h3>
+<p>My piece visualizes my daily boredom levels and phone pickups through a timeline of overlapping construction‑paper circles that vary in size and color. I was influenced by the climate‑change heat‑gradient graphic we studied in class, which showed how a simple shift in color can communicate intensity and emotion. I will also invite some chaos into my project with the overlapping circles indicating stressful time in this month. I will create this by cutting paper circles and making then equidistant apart allowing for some overlap when large 1 boredom rank circles appear right next to each other.</p>
+</section>
+<section id="e.-1" class="level3">
+<h3 class="anchored" data-anchor-id="e.-1">e.</h3>
+<p><a href="Boredom%20Scale%20Vs%20Phone%20pickups%20-%20Presentation">My slides</a></p>
+</section>
+</section>
+<section id="problem-4" class="level1">
+<h1>Problem 4</h1>
+<section id="a.-3" class="level3">
+<h3 class="anchored" data-anchor-id="a.-3">a.</h3>
+<p>This test uses a Spearmans correlation test to analyze contamination of PFAs in groundwater in Hutuo China. The response variables are the individual PFAS concentrations measured in groundwater samples (PFOA, PFNA, PFHxA, etc). These are the outcomes being compared against each other in the correlation analysis. The predictor variable is the site (1-4) that the sample came from. We are also comparing the concentration of another PFAS compound in the same groundwater samples in the Spearmans correlation.</p>
+</section>
+<section id="b.-3" class="level3">
+<h3 class="anchored" data-anchor-id="b.-3">b.</h3>
+<p>The table presents the correlation results in a clear and straightforward grid, with PFAS compounds listed along both axes in a logical order. The authors include significance markers (* and **) that make it easy to identify which correlations are statistically meaningful at the .05 and .01 levels respectively. However, the table does not show any underlying data distributions or sample variability, so the reader cannot assess how strongly skewed or clustered the concentrations are.</p>
+</section>
+<section id="c.-2" class="level3">
+<h3 class="anchored" data-anchor-id="c.-2">c.</h3>
+<p>The table has minimal decorative elements, resulting in a high data:ink ratio. The authors avoid bolding or color coding, which keeps the table clean but also makes it harder to quickly spot the strongest correlations without scanning each cell. The use of asterisks for significance is subtle and does not distract from the numerical values.</p>
+</section>
+<section id="d.-2" class="level3">
+<h3 class="anchored" data-anchor-id="d.-2">d.</h3>
+<p>To make the table easier to read, I would add light shading or simple color gradients to show which correlations are stronger or weaker. This would help readers quickly spot PFAS compounds that behave similarly. I would also add a short note with confidence intervals or sample size information so the reader understands how reliable each value is ( just form looking at the table not the whole study). Another option would be to include a correlation heatmap, with PFAS on both axes and color showing the strength of each correlation, which would make patterns much easier to see at a glance.</p>
 </section>
 </section>
 
